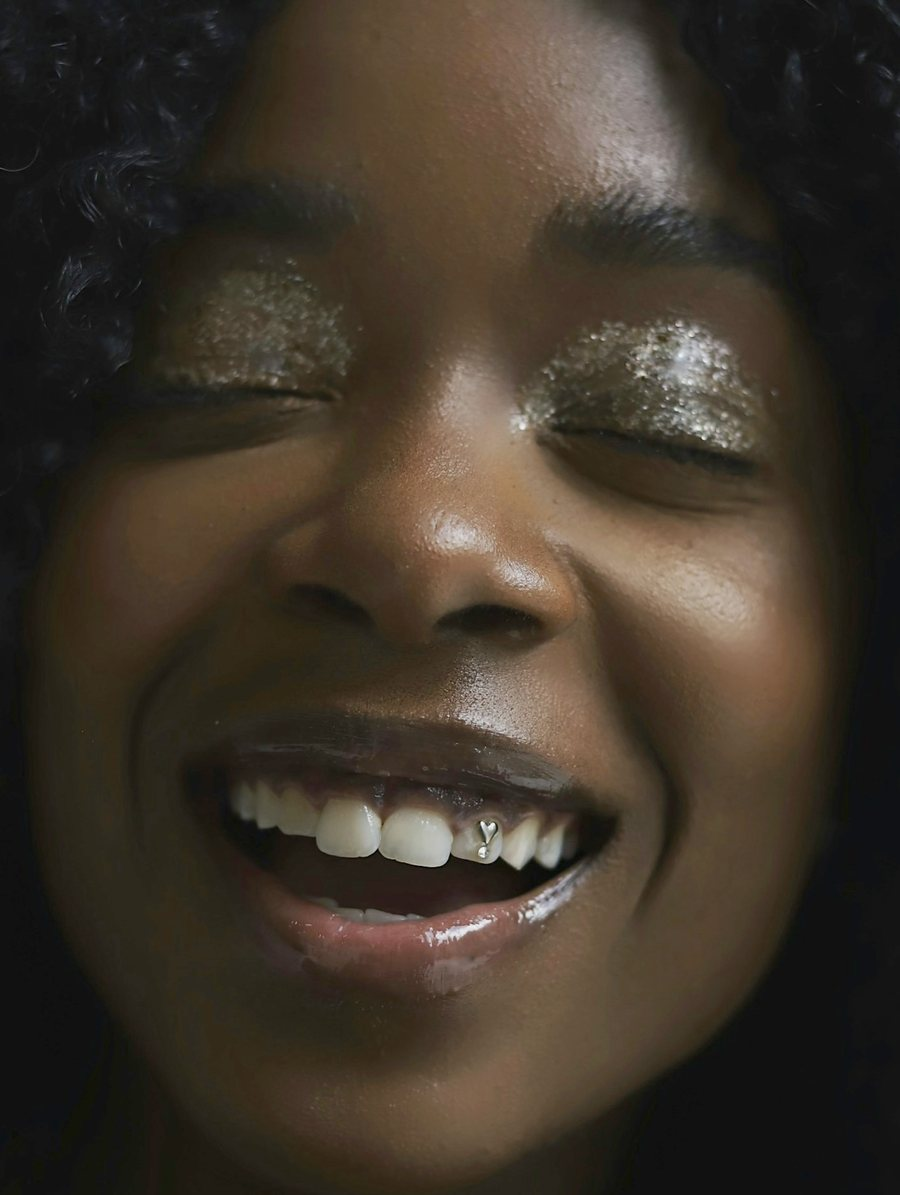
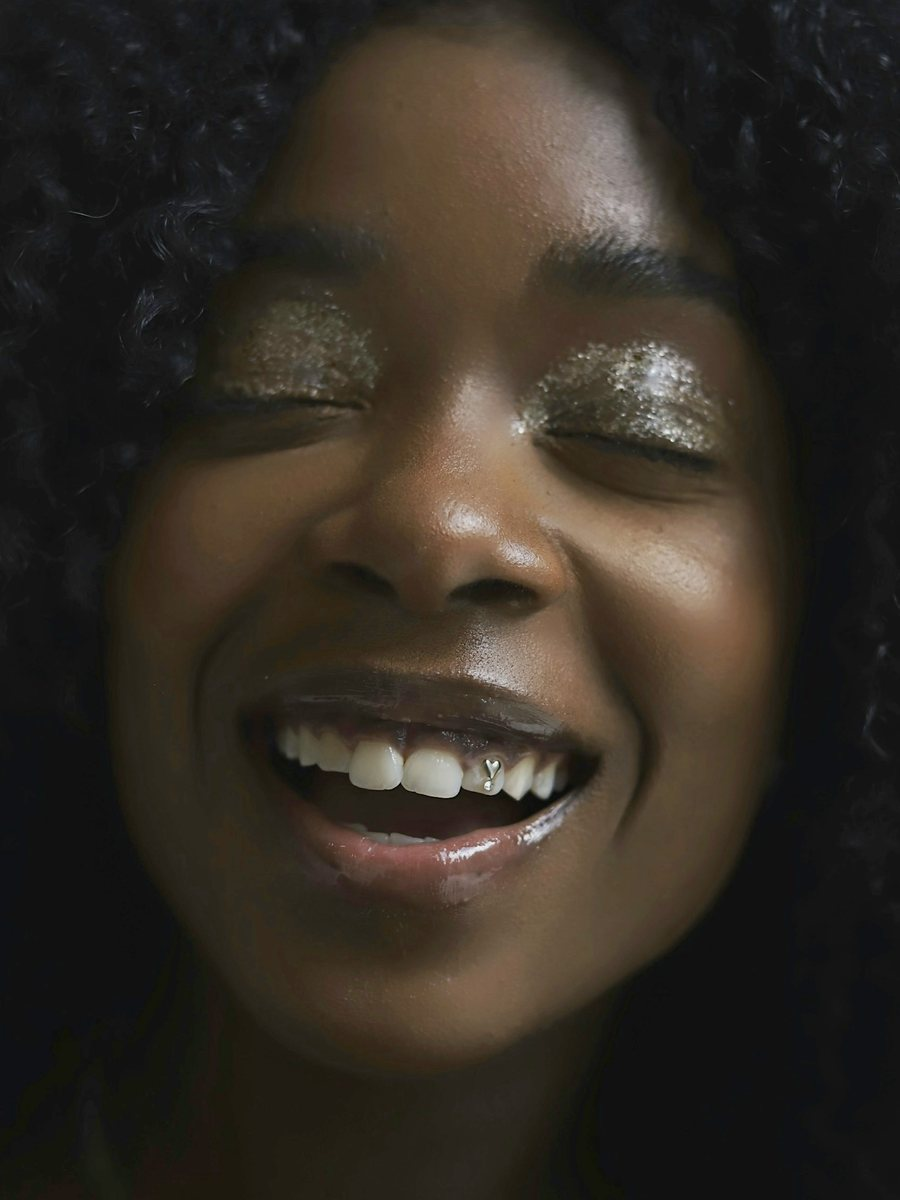
Tooth gems page: title photo zoomed out with its full colour; face photo zoomed out

diff --git a/css/service-page.css b/css/service-page.css
@@ -212,5 +212,9 @@ h1, h2, h3 { font-family: 'Playfair Display', serif; }
 
 /* Tooth gems page: close-up photo enlarged on computers so the gems sit to the right of the title */
 @media (min-width: 768px) {
-	.svc-hero.light.soft.gem { background-size: 150% auto; background-position: 9% 38%; }
+	.svc-hero.light.soft.gem { background-size: 122% auto; background-position: 0% 36%; }
+	.svc-hero.light.soft.gem .kicker, .svc-hero.light.soft.gem h1, .svc-hero.light.soft.gem p.lead { text-shadow: 0 0 10px rgba(250,247,242,0.95), 0 0 3px rgba(250,247,242,0.9); }
+	.svc-hero.light.soft.gem .kicker { color: #6f5a30; }
+	/* Much lighter fade than the other light heroes, so the photo keeps its colour */
+	.svc-hero.light.soft.gem::before { background: linear-gradient(90deg, rgba(250,247,242,0.55) 0%, rgba(250,247,242,0.4) 30%, rgba(250,247,242,0.08) 55%, rgba(250,247,242,0) 70%); }
 }

diff --git a/tooth-gems.html b/tooth-gems.html
@@ -129,7 +129,7 @@
 	<link href="css/bootstrap.min.css" rel="stylesheet" />
 	<link href="css/style-0.css" rel="stylesheet" />
 	<link href="css/fontawesome-all.min.css" rel="stylesheet" />
-	<link href="css/service-page.css?v=12" rel="stylesheet" />
+	<link href="css/service-page.css?v=14" rel="stylesheet" />
 
 	<!-- Cal.com -->
 	<script type="text/javascript">
@@ -219,7 +219,7 @@
 				<li>You can ask to have your gem removed at any time.</li>
 			</ul>
 		</div>
-		<img class="fit" src="images/tooth-gem-smiling-face.jpg" alt="Smiling woman with a small tooth gem on a front tooth" loading="lazy">
+		<img class="fit" src="images/tooth-gem-smiling-face.jpg?v=2" alt="Smiling woman with a small tooth gem on a front tooth" loading="lazy">
 	</section>
 	<section class="svc-section alt">
 		<div class="inner">

diff --git a/childrens-dental-hygiene.html b/childrens-dental-hygiene.html
@@ -113,7 +113,7 @@
 	<link href="css/bootstrap.min.css" rel="stylesheet" />
 	<link href="css/style-0.css" rel="stylesheet" />
 	<link href="css/fontawesome-all.min.css" rel="stylesheet" />
-	<link href="css/service-page.css?v=12" rel="stylesheet" />
+	<link href="css/service-page.css?v=14" rel="stylesheet" />
 
 	<!-- Cal.com -->
 	<script type="text/javascript">

diff --git a/fluoride-treatment.html b/fluoride-treatment.html
@@ -121,7 +121,7 @@
 	<link href="css/bootstrap.min.css" rel="stylesheet" />
 	<link href="css/style-0.css" rel="stylesheet" />
 	<link href="css/fontawesome-all.min.css" rel="stylesheet" />
-	<link href="css/service-page.css?v=12" rel="stylesheet" />
+	<link href="css/service-page.css?v=14" rel="stylesheet" />
 
 	<!-- Cal.com -->
 	<script type="text/javascript">

diff --git a/teeth-cleaning.html b/teeth-cleaning.html
@@ -113,7 +113,7 @@
 	<link href="css/bootstrap.min.css" rel="stylesheet" />
 	<link href="css/style-0.css" rel="stylesheet" />
 	<link href="css/fontawesome-all.min.css" rel="stylesheet" />
-	<link href="css/service-page.css?v=12" rel="stylesheet" />
+	<link href="css/service-page.css?v=14" rel="stylesheet" />
 
 	<!-- Cal.com -->
 	<script type="text/javascript">

diff --git a/tooth-sensitivity.html b/tooth-sensitivity.html
@@ -121,7 +121,7 @@
 	<link href="css/bootstrap.min.css" rel="stylesheet" />
 	<link href="css/style-0.css" rel="stylesheet" />
 	<link href="css/fontawesome-all.min.css" rel="stylesheet" />
-	<link href="css/service-page.css?v=12" rel="stylesheet" />
+	<link href="css/service-page.css?v=14" rel="stylesheet" />
 
 	<!-- Cal.com -->
 	<script type="text/javascript">

diff --git a/mobile-dental-hygiene.html b/mobile-dental-hygiene.html
@@ -68,7 +68,7 @@
 	<link href="css/bootstrap.min.css" rel="stylesheet" />
 	<link href="css/style-0.css" rel="stylesheet" />
 	<link href="css/fontawesome-all.min.css" rel="stylesheet" />
-	<link href="css/service-page.css?v=12" rel="stylesheet" />
+	<link href="css/service-page.css?v=14" rel="stylesheet" />
 
 	<!-- Cal.com -->
 	<script type="text/javascript">

diff --git a/teeth-whitening.html b/teeth-whitening.html
@@ -66,7 +66,7 @@
 	<link href="css/bootstrap.min.css" rel="stylesheet" />
 	<link href="css/style-0.css" rel="stylesheet" />
 	<link href="css/fontawesome-all.min.css" rel="stylesheet" />
-	<link href="css/service-page.css?v=12" rel="stylesheet" />
+	<link href="css/service-page.css?v=14" rel="stylesheet" />
 
 	<!-- Cal.com -->
 	<script type="text/javascript">
